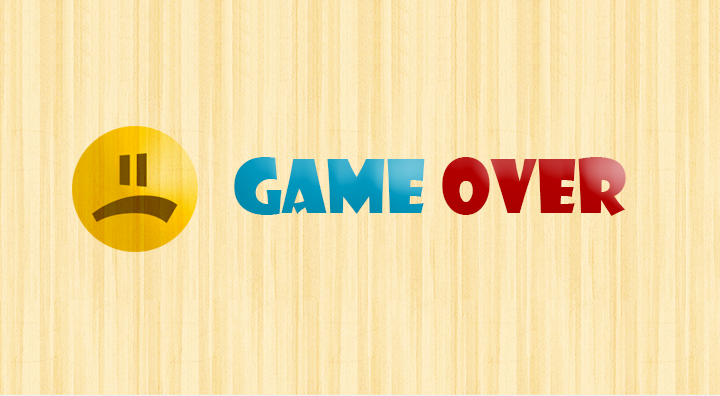
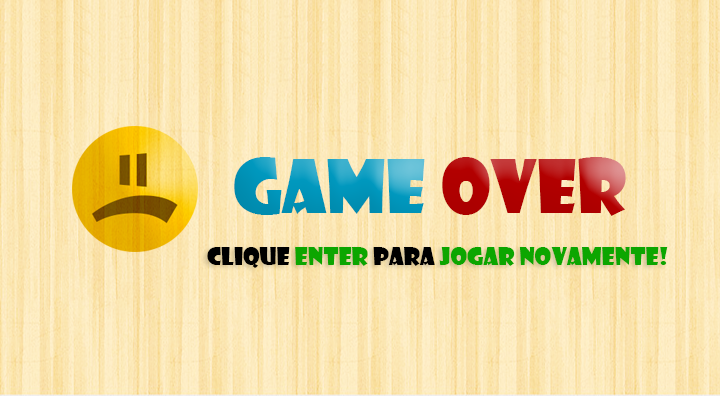
- Commitando versão beta do pacman

Changed region(s): [[0.275, 0.6061, 0.9472, 0.697]]

diff --git a/src/br/ufrpe/pixengine/pacman/SecondState.java b/src/br/ufrpe/pixengine/pacman/SecondState.java
@@ -8,30 +8,30 @@ import br.ufrpe.pixengine.core.fx.SoundClip;
 import br.ufrpe.pixengine.pacman.PacMan;
 
 
-public class FirstState extends State {
-	public FirstState() {
+public class SecondState extends State {
+	public SecondState() {
 		manager.addObject(new GameImage("images/floor.png"));
 		// mapa do labirinto
-		int maze_matrice[][] = {{0,0,0,0,0,0,0,0,0,0,0,0,0,0,0,0,0,0,0,0},
-						        {0,1,1,1,1,1,1,1,1,0,0,1,1,1,1,1,1,1,1,0},
-						        {0,1,0,0,0,1,0,0,1,0,0,1,0,0,1,0,0,0,1,0},
-						        {0,1,1,1,0,1,1,1,1,1,1,1,1,1,1,0,1,1,1,0},
-						        {0,0,0,1,0,0,1,0,0,0,0,0,0,1,0,0,1,0,0,0},
-						        {1,1,1,1,1,1,1,0,0,0,0,0,0,1,1,1,1,1,1,1},
-						        {0,0,0,1,0,0,1,1,1,1,1,1,1,1,0,0,1,0,0,0},
-						        {0,1,1,1,1,1,1,0,0,0,0,0,0,1,1,1,1,1,1,0},
-						        {0,1,0,0,0,0,1,0,0,0,0,0,0,1,0,0,0,0,1,0},
+		int maze_matrice[][] = {{0,0,0,0,0,0,0,0,0,1,0,0,0,0,0,0,0,0,0,0},
+						        {0,1,1,1,1,1,1,1,1,1,1,1,1,1,1,1,1,1,1,0},
+						        {0,1,0,1,0,0,0,0,0,0,0,0,0,0,0,0,1,0,1,0},
+						        {0,1,0,1,1,1,1,1,1,1,1,1,1,1,1,1,1,0,1,0},
+						        {0,1,0,1,0,0,0,0,0,0,0,0,0,0,1,0,1,0,1,0},
+						        {1,1,0,1,0,1,1,1,1,1,1,1,1,1,1,0,1,0,1,1},
+						        {0,1,0,1,0,1,0,0,0,0,0,0,0,0,0,0,1,0,1,0},
+						        {0,1,0,1,1,1,1,1,1,1,1,1,1,1,1,1,1,0,1,0},
+						        {0,1,0,1,0,0,0,0,0,0,0,0,0,0,0,0,1,0,1,0},
 						        {0,1,1,1,1,1,1,1,1,1,1,1,1,1,1,1,1,1,1,0},
 						        {0,0,0,0,0,0,0,0,0,0,0,0,0,0,0,0,0,0,0,0}};
 		
 		manager.setPoitsAmout(this.build_maze(manager, maze_matrice));
 		
 		manager.addObject(new PacMan(360, 324, "pacman", manager, maze_matrice));
-		manager.addObject(new Ghost(36,   36,    0, "ghost1", manager, maze_matrice));
-		manager.addObject(new Ghost(180,  180,  36, "ghost2", manager, maze_matrice));
-		manager.addObject(new Ghost(648,  36,   72, "ghost3", manager, maze_matrice));
-		manager.addObject(new Ghost(648,  324, 108, "ghost4", manager, maze_matrice));
-		manager.addObject(new Ghost(36,   324, 144, "ghost5", manager, maze_matrice));
+		manager.addObject(new Ghost(108, 36, 0, "ghost1", manager, maze_matrice));
+		manager.addObject(new Ghost(108, 108, 36, "ghost2", manager, maze_matrice));
+		manager.addObject(new Ghost(108, 180, 72, "ghost3", manager, maze_matrice));
+		manager.addObject(new Ghost(108, 252, 108, "ghost4", manager, maze_matrice));
+		manager.addObject(new Ghost(108, 324, 144, "ghost5", manager, maze_matrice));
 	}
 	
 	/**

diff --git a/src/br/ufrpe/pixengine/pacman/Ghost.java b/src/br/ufrpe/pixengine/pacman/Ghost.java
@@ -25,7 +25,7 @@ public class Ghost extends GameObject{
 	 private float weakness_time;
 	 private float hidden_time;
 	 private SoundClip has_been_eaten_sound = new SoundClip("ghost_has_been_eaten.wav");
-	 private SoundClip getting_strong = new SoundClip("ghost_strong.wav");
+	 public SoundClip getting_strong = new SoundClip("ghost_strong.wav");
 	 
 	 public Ghost(float x, float y, int offsetY, String tag, ObjectManager manager, int maze_matrice[][]) {
 		setTag(tag);

diff --git a/src/br/ufrpe/pixengine/components/ObjectManager.java b/src/br/ufrpe/pixengine/components/ObjectManager.java
@@ -76,7 +76,17 @@ public class ObjectManager {
 	
 	public void made_ghosts_weak () {
 		for (Ghost ghostObject : ghosts) {
-			ghostObject.get_weak();
+			if(!ghostObject.is_weak && !ghostObject.is_hidden){
+				ghostObject.get_weak();
+			}
+			
 		}
+	}
+
+	public void stop_getting_strong_sound() {
+		for (Ghost ghost : ghosts) {
+			ghost.getting_strong.stop();
+		}
+		
 	}
 }

diff --git a/src/br/ufrpe/pixengine/pacman/GameOverState.java b/src/br/ufrpe/pixengine/pacman/GameOverState.java
@@ -21,6 +21,12 @@ public class GameOverState extends State {
 
 	@Override
 	public void update(GameContainer gc, float dt) {
+		Input game_input = gc.getInput();
+		if (game_input.isKeyPressed(KeyCode.ENTER.ordinal())) {
+			gameover_sound.stop();
+			gc.getGame().pop();
+			gc.getGame().push(new FirstState());
+		} 
 		manager.updateObjects(gc, dt);
 	}
 

diff --git a/src/br/ufrpe/pixengine/pacman/HomeState.java b/src/br/ufrpe/pixengine/pacman/HomeState.java
@@ -23,6 +23,7 @@ public class HomeState extends State {
 	public void update(GameContainer gc, float dt) {
 		Input game_input = gc.getInput();
 		if (game_input.isKeyPressed(KeyCode.ENTER.ordinal())) {
+			gc.getGame().pop();
 			gc.getGame().push(new FirstState());
 			initial_music.stop();
 		} 

diff --git a/src/br/ufrpe/pixengine/pacman/PacMan.java b/src/br/ufrpe/pixengine/pacman/PacMan.java
@@ -310,6 +310,7 @@ public class PacMan extends GameObject{
 				}
 				else{
 					setDead(true);
+					manager.stop_getting_strong_sound();
 				}
 			}
 		}
